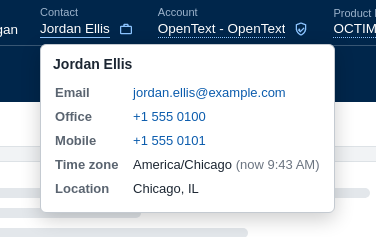
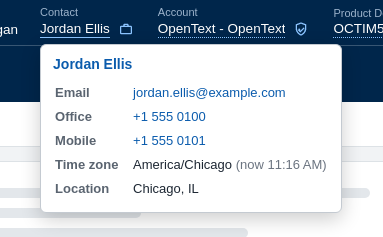
Web page for 1.3.1: account card with support team and notes, followed cases, Jabber
Claude-Session: https://claude.ai/code/session_01NkpnDbqKsuBq5PSnVFxaiM

diff --git a/site/index.html b/site/index.html
@@ -58,17 +58,24 @@
     <li><b>Case</b> number (click to copy), <b>Title</b> (shortened; hover for all of it), <b>Priority</b> and <b>Status</b> badges, <b>Owner</b>, <b>Contact</b>, <b>Account</b>, <b>Created</b> and <b>Updated</b>.</li>
     <li><b>Product Dev ID</b> when the case has one, linked to its Quixy page. <b>Product</b> and <b>Entitlement</b> can be turned on in the settings.</li>
     <li><b>FTS</b> opens the case's FTS account in WinSCP, logged in with the case's credentials.</li>
+    <li>Contact and account cards with phone numbers, the account's support team and special handling notes.</li>
     <li>It stays on screen as you scroll, and reloads when you press OTSM's Refresh button on the case.</li>
   </ul>
 
   <h3>Contact and account cards</h3>
-    <p>Hover over the contact or account name for their details: email and phone numbers, time zone with the local time there,
-    location, account number and region. Click to keep the card open.</p>
+  <p>Hover over the contact or account name for their details: email and phone numbers, time zone with the local time there,
+    location, account number and region. Click to keep the card open. The name at the top of a card opens the contact's or
+    account's page in OTSM, and phone numbers can call through your phone app or Cisco Jabber.</p>
   <figure><a href="img/contact-card.png"><img src="img/contact-card.png" alt="Contact card with email, office and mobile numbers, time zone and location"></a></figure>
+  <p>The account card also shows the <b>support team</b>: the TAM, SAM, premium manager and support group from the case's
+    entitlement (or the account's other entitlements), and the account's <b>special handling notes</b>.</p>
+  <figure><a href="img/account-card.png"><img src="img/account-card.png" alt="Account card with account number, region, time zone, a support team of TAM, SAM and support group, and a special handling note"></a></figure>
+
   <h3>Other cases</h3>
-    <p>The case icon next to the contact lists the contact's other cases, or the whole account's, newest first, with links.
-    This case is highlighted and closed cases are greyed.</p>
-  <figure><a href="img/cases-account.png"><img src="img/cases-account.png" alt="Popup listing the account's cases with case number, title, status, owner, contact and created date"></a></figure>
+  <p>The case icon next to the contact lists the contact's other cases, or the whole account's, newest first, with links.
+    Cases the contact follows are included and marked, as they are in the contact's own portal. This case is highlighted
+    and closed cases are greyed.</p>
+  <figure><a href="img/cases.png"><img src="img/cases.png" alt="Popup listing the contact's cases, including one they follow from another account, with case number, title, status, owner and created date"></a></figure>
 
   <h3>Entitlements</h3>
   <p>The shield icon next to the account lists its entitlements: product, support plan, contract, dates and state, in-use ones first.
@@ -77,7 +84,8 @@
 
   <h3>Settings</h3>
   <p>Click ⚙ on the banner (or right-click the extension's icon and choose Options) to pick which fields show and in what order,
-    the colours, the title length, how names are shown (First Last or Last, First) and which FTS account the button uses.
+    the colours, the title length, how names are shown (First Last or Last, First), whether phone numbers open your phone app or Jabber,
+    and which FTS account the button uses.
     Changes show on open cases straight away.</p>
   <figure><a href="img/settings.png"><img src="img/settings.png" alt="The settings page: a live preview, the list of fields with tick boxes and arrows, colour choices and other options"></a></figure>
 
@@ -103,7 +111,7 @@
     tick <b>Always allow</b> so it doesn't ask again.</p>
 
   <h2>Privacy</h2>
-  <p>The extension only runs on OTSM case pages. It reads the case, contact, account and entitlement details from OTSM with your own login,
+  <p>The extension only runs on OTSM case pages. It reads the case, contact, account, entitlement and special handling note details from OTSM with your own login,
     the same way the OTSM page does, and doesn't send anything anywhere else. Your settings are kept in your browser profile.</p>
 
   <footer>Questions, problems or ideas: Trevor Sanford, <a href="mailto:tsanford@opentext.com">tsanford@opentext.com</a>.</footer>

diff --git a/test/demo.js b/test/demo.js
@@ -44,6 +44,16 @@ const ents = [
   ent('20000001', 'Premium Support', 'ArcSight Enterprise Security Manager (ESM)', 'CT-000101', '2024-01-01', '2025-12-31', 'Inactive'),
 ];
 const entitled = ents.slice(0, 2);
+// The case's entitlement with its support team, a Special Handling Note, and a case the contact follows (another account's)
+const caseEnt = { properties: Object.assign({}, ents[0].properties, { TechnicalAccountManager_c: '60010', SupportAccountManager_c: '60011', AssignmentGroup_c: '70001' }),
+  related_properties: Object.assign({}, ents[0].related_properties, {
+    TechnicalAccountManager_c: { Name: 'Rivera, Morgan', Email: 'morgan.rivera@example.com', OfficePhoneNumber: '+1 555 0142' },
+    SupportAccountManager_c: { Name: 'Hart, Riley', Email: 'riley.hart@example.com', OfficePhoneNumber: '+1 555 0157' },
+    AssignmentGroup_c: { Name: 'Premium Support' } }) };
+const notes = [{ properties: { Id: '80001', Status_c: 'Active_c', Message_c: '<p>SAM - Riley Hart</p><p>NSE - Jesse Carter</p>' } }];
+const followed = { properties: { Id: '11612007', DisplayLabel: '[ESM] Shared connector appliance drops events during peak load', Status: 'RequestStatusInProgress', Priority: 'HighPriority',
+  EmsCreationTime: day('2026-10-21T15:00:00Z'), RequestedForPerson: '60099', RequestToCompany: '50077' },
+  related_properties: { OwnedByPerson: { Name: 'Lee, Drew' }, RequestedForPerson: { Name: 'Shah, Parker' }, RequestToCompany: { DisplayLabel: 'Example Partner Services' } } };
 const json = o => ({ status: 200, contentType: 'application/json', body: JSON.stringify(o) });
 const list = (entities, total) => json({ entities, meta: { total_count: total === undefined ? entities.length : total } });
 
@@ -54,6 +64,9 @@ function answer(u) {
   if (/\/ems\/Person\/\d+\?/.test(p)) return json({ entities: [{ properties: person, related_properties: { Location: { DisplayLabel: 'Chicago, IL' } } }] });
   if (/\/ems\/Company\/\d+\/associations\//.test(p)) return list([]);
   if (/\/ems\/Company\/\d+\?/.test(p)) return json({ entities: [{ properties: company, related_properties: { Headquarters: { DisplayLabel: 'Waterloo, ON' } } }] });
+  if (/\/ems\/Entitlement\/\d+\?/.test(p)) return json({ entities: [caseEnt] });
+  if (/\/ems\/SpecialHandlingNotes_c\?/.test(p)) return list(notes);
+  if (/\/ems\/Request\?filter=FollowedByUsers/.test(p)) return list([followed]);
   if (/\/ems\/Request\?filter=RequestToCompany/.test(p)) return list(cases('account'), 2147);
   if (/\/ems\/Request\?filter=RequestedForPerson/.test(p)) return list(cases('contact'));
   if (/\/ems\/Entitlement\?/.test(p)) return list(ents);
@@ -102,10 +115,12 @@ h2 { font-size: 20px; color: #1d2733; margin: 0 0 10px; font-weight: 400; }
   let [x, y] = await at('#otsmb .otsmb-col:nth-child(6) .otsmb-name, #otsmb [class*="otsmb-name"]');
   await page.mouse.move(x, y); await sleep(1200); await shotPopup('contact-card');
   await page.mouse.move(5, 500); await sleep(800);
+  [x, y] = await at('#otsmb .otsmb-col:nth-child(7) .otsmb-name');
+  await page.mouse.move(x, y); await sleep(1200); await shotPopup('account-card');
+  await page.mouse.move(5, 500); await sleep(800);
   // other cases (click the case icon), account tab too
   const click = async sel => { await page.click(sel); await page.evaluate(() => document.activeElement && document.activeElement.blur()); };
   await click('#otsmb button[title="Contact\'s other cases"]'); await sleep(1000); await shotPopup('cases');
-  await page.evaluate(() => [...document.querySelectorAll('.otsmb-tabs button')][1].click()); await sleep(1000); await page.evaluate(() => document.activeElement && document.activeElement.blur()); await shotPopup('cases-account');
   await page.keyboard.press('Escape');
   await click('#otsmb button[title="Account\'s entitlements"]'); await sleep(1000); await shotPopup('entitlements');
   await page.keyboard.press('Escape');
